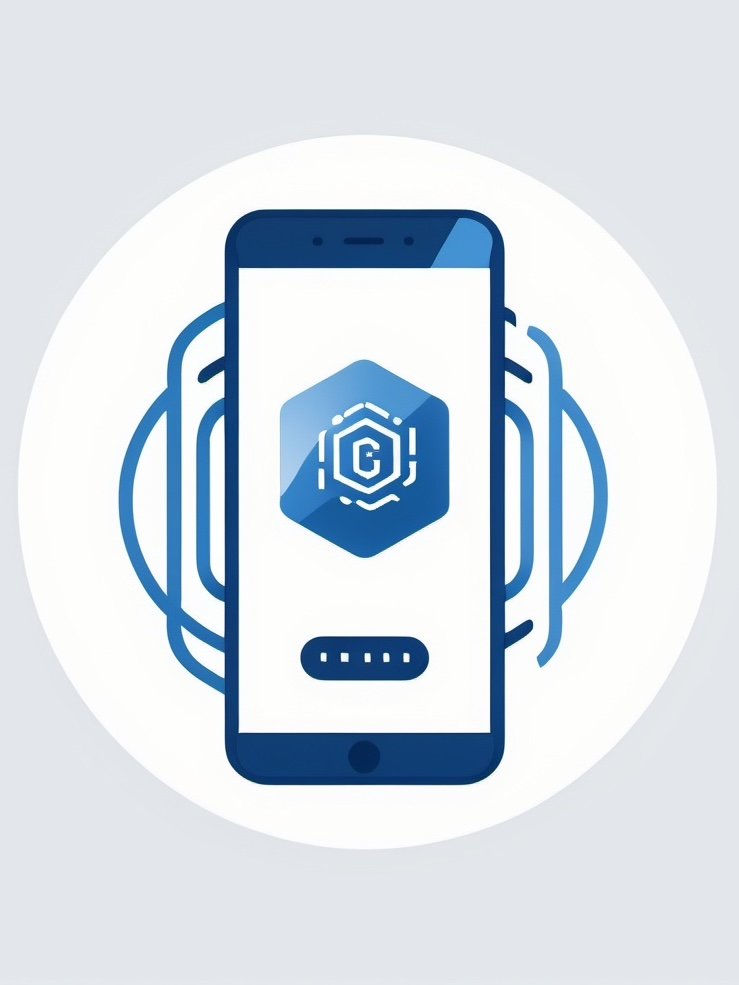
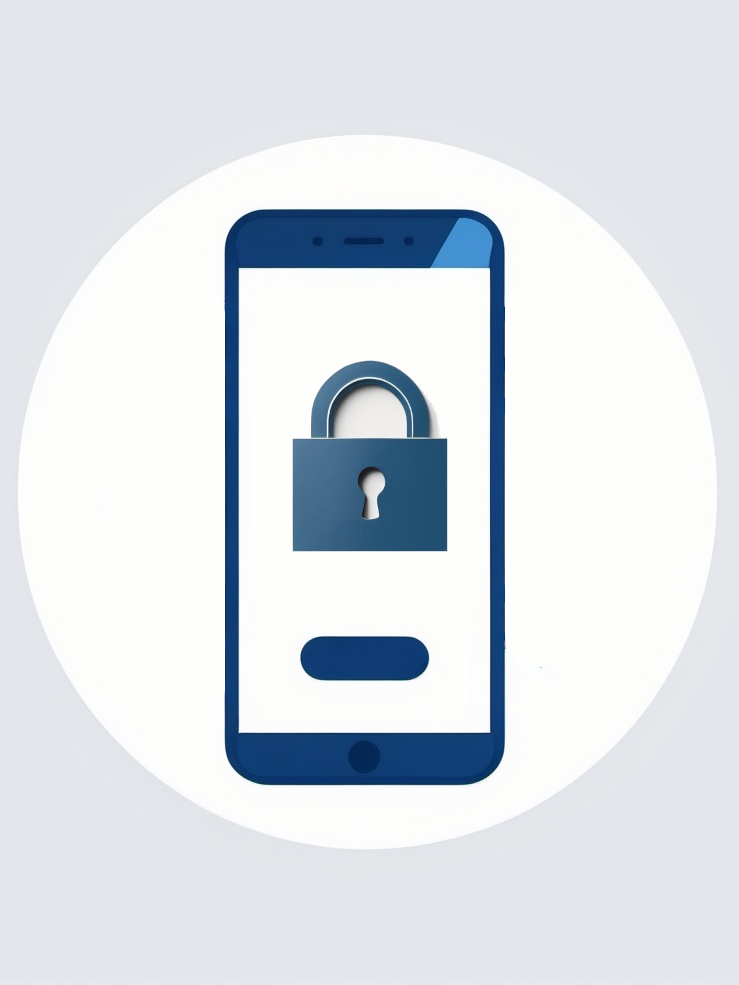
Rework renderMethod text, add image.

diff --git a/future-vc-standards/Overview.html b/future-vc-standards/Overview.html
@@ -95,18 +95,31 @@
     <p class="shout">Features</p>
    </section>
 
-  <section class="slide">
-    <h2>renderMethod</h2>
+  <section class="slide side r">
+    <img class="side cover" width=700 height=800
+    src="./images/renderMethod.png">
+    <h2>renderMethod (1/2)</h2>
     <h3>A secure way for issuers to convey how they want their credentials displayed</h3>
-    <ol>
-     <li>Production deployments in Singapore for Open Attestation Renderer</li>
-     <li>Multiple implementations (none interoperable yet)</li>
+    <ul>
+     <li>Represent Verifiable Credential through visual, auditory, or haptic medium</li>
      <li>Experimenting with SVG, PDF, and other text-based template formats</li>
      <li>Examples deployed in Playground, standardization ETA 6-12 months</li>
-    </ol>
+    </ul>
+  </section>
+
+  <section class="slide side r">
+    <img class="side cover" width=700 height=800
+    src="./images/renderMethod.png">
+    <h2>renderMethod (2/2)</h2>
+    <h3>A secure way for issuers to convey how they want their credentials displayed</h3>
+    <ul>
+      <li>Production deployments in Singapore for Open Attestation Renderer</li>
+      <li>Multiple implementations (none interoperable yet)</li>
+    </ul>
   </section>
 
   <section class="slide">
+
     <h2>renderMethod</h2>
     <code>"renderMethod": [{
       "id": "https://example.edu/credentials/BachelorDegree.svg",
